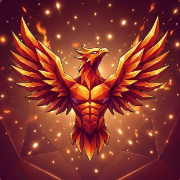
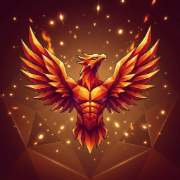
Icona fenice definitiva e colori di Body Temple

diff --git a/index.html b/index.html
@@ -4,13 +4,13 @@
 <meta charset="utf-8">
 <meta name="viewport" content="width=device-width,initial-scale=1,viewport-fit=cover">
 <title>Body Temple</title>
-<meta name="theme-color" content="#2A0816">
+<meta name="theme-color" content="#290712">
 <meta name="robots" content="noindex">
 <link rel="manifest" href="manifest.webmanifest">
 <link rel="icon" href="icon-192.png" type="image/png">
 <link rel="apple-touch-icon" href="apple-touch-icon.png">
 <style>
-  :root{color-scheme:dark;--bg:#2A0816;--fg:#F4EFEC;--muted:#A39A95;--accent:#F26B38;--accent-2:#D23A3A}
+  :root{color-scheme:dark;--bg:#290712;--fg:#F4EFEC;--muted:#A39A95;--accent:#F26B38;--accent-2:#D23A3A}
   *{box-sizing:border-box}
   html,body{height:100%;margin:0}
   body{background:var(--bg);color:var(--fg);font:16px/1.5 system-ui,-apple-system,"Segoe UI",sans-serif;display:grid;place-items:center;
